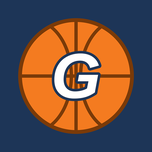
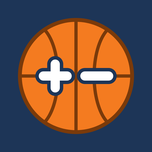
v3.36: icono nuevo (balón con + y −) y accesibilidad: contraste AA, zoom permitido, casillas con nombre
Claude-Session: https://claude.ai/code/session_01SzTzzzohvvMUpqctBHsnA3

diff --git a/index.html b/index.html
@@ -2,7 +2,7 @@
 <html lang="es">
 <head>
 <meta charset="UTF-8">
-<meta name="viewport" content="width=device-width, initial-scale=1, maximum-scale=1, user-scalable=no, viewport-fit=cover">
+<meta name="viewport" content="width=device-width, initial-scale=1, viewport-fit=cover">
 <meta name="app-version" content="3.36">
 <meta name="theme-color" content="#1d3557">
 <meta name="apple-mobile-web-app-capable" content="yes">
@@ -29,11 +29,15 @@
 <link href="https://fonts.googleapis.com/css2?family=Baloo+2:wght@500;700;800&family=Orbitron:wght@700;900&display=swap" rel="stylesheet">
 <style>
   :root{
-    --naranja:#f47b20; --naranja-osc:#c95d0c; --azul:#1d3557; --azul2:#274b7a;
-    --madera:#e9c48f; --madera2:#d9a865; --verde:#2a9d5c; --rojo:#e04848;
+    --naranja:#bd570a; --naranja-osc:#c95d0c; --azul:#1d3557; --azul2:#274b7a;
+    --madera:#e9c48f; --madera2:#d9a865; --verde:#22814b; --rojo:#d63030;
     --crema:#fff8ee; --tinta:#1d2433; --amarillo:#ffd23f; --ik-accent:#e06a10;
   }
   *{box-sizing:border-box;-webkit-tap-highlight-color:transparent;touch-action:manipulation}
+  /* Sin zoom sin querer mientras se juega (el zoom del sistema sigue disponible en los menús) */
+  #juego,#tarjetas,#completa{touch-action:pan-y}
+  /* Con el teclado, lo que recibe el foco no se queda escondido detrás del botón «¡A jugar!» (pegado abajo) */
+  html{scroll-padding-bottom:110px}
   html,body{-webkit-text-size-adjust:100%}
   html,body{margin:0;height:100%}
   body{
@@ -57,7 +61,7 @@
   h1{margin:0;font-size:2rem;line-height:1.05;color:var(--azul)}
   h2{margin:0 0 8px;font-size:1.3rem;color:var(--azul)}
   p{margin:.3em 0}
-  .version{font-size:.8rem;opacity:.55;text-align:center;margin-top:6px}
+  .version{font-size:.8rem;color:#5b6475;text-align:center;margin-top:6px}
 
   .cabecera{display:flex;align-items:center;gap:12px}
   .balon-logo{width:64px;height:64px;flex:none}
@@ -82,14 +86,14 @@
   .jugador-in[data-pose=tira]{animation:none}
   .opt[data-nivel],.opt[data-modo]{background:var(--c);color:#fff;border:3px solid transparent;
     box-shadow:0 5px 0 var(--o);transition:transform .12s, box-shadow .12s;text-shadow:0 1px 0 rgba(0,0,0,.2)}
-  .opt[data-nivel] small,.opt[data-modo] small{color:rgba(255,255,255,.92)}
+  .opt[data-nivel] small,.opt[data-modo] small{color:#fff}
   .opt[data-nivel].sel,.opt[data-modo].sel{background:var(--c);border-color:#fff;transform:translateY(-3px);
     box-shadow:0 8px 0 var(--o),0 0 0 4px var(--amarillo)}
   .opt[data-nivel]:not(.sel),.opt[data-modo]:not(.sel){filter:saturate(.75) brightness(.97)}
-  .opt[data-nivel=suma]{--c:#2a9d5c;--o:#1b6e40} .opt[data-nivel=resta]{--c:#3478d4;--o:#235597}
-  .opt[data-nivel=tablas]{--c:#7b5cff;--o:#5539c9} .opt[data-nivel=mezcla]{--c:#f47b20;--o:#b9560e}
-  .opt[data-modo=partido]{--c:#f47b20;--o:#b9560e} .opt[data-modo=entreno]{--c:#14a3a3;--o:#0c7373}
-  .opt[data-modo=reto]{--c:#e04848;--o:#a32f2f}
+  .opt[data-nivel=suma]{--c:#22814b;--o:#195f37} .opt[data-nivel=resta]{--c:#2c6ccb;--o:#21549a}
+  .opt[data-nivel=tablas]{--c:#6b48f5;--o:#4a2bc4} .opt[data-nivel=mezcla]{--c:#bd570a;--o:#883f07}
+  .opt[data-modo=partido]{--c:#bd570a;--o:#883f07} .opt[data-modo=entreno]{--c:#107f7f;--o:#0c5d5d}
+  .opt[data-modo=reto]{--c:#d63030;--o:#a41c1c}
   .opt[data-modo=rapido]{--c:#7c3aed;--o:#4c1d95}
 
   .btn{display:block;width:100%;border:0;border-radius:18px;padding:14px;font:inherit;
@@ -252,7 +256,7 @@
     background:var(--c);box-shadow:0 4px 0 var(--o);line-height:1.1}
   .mas:active{transform:translateY(3px);box-shadow:0 1px 0 var(--o)}
   .mas .signo{width:32px;height:32px;display:block;margin:0 auto 4px;filter:drop-shadow(0 2px 0 rgba(0,0,0,.25))}
-  .mas b{display:block} .mas small{display:block;font-weight:500;font-size:.78rem;opacity:.92;margin-top:2px}
+  .mas b{display:block} .mas small{display:block;font-weight:500;font-size:.78rem;margin-top:2px}
   .tablas-mini{margin:0 0 10px;justify-content:center;gap:6px}
   .tablas-mini .chip{min-width:40px;font-size:1.05rem;padding:4px 6px}
   /* Mi progreso */
@@ -335,7 +339,7 @@
   .led::before,.led::after{content:"";position:absolute;top:-14px;width:10px;height:14px;background:#2c2c2c}
   .led::before{left:30%} .led::after{right:30%}
   .barra-jugar{margin:4px 0 0;position:sticky;bottom:max(10px, env(safe-area-inset-bottom));z-index:6}
-  #btn-jugar .bj-txt{display:block;line-height:1.1} #btn-jugar small{display:block;font-size:.95rem;font-weight:700;opacity:.95;margin-top:2px}
+  #btn-jugar .bj-txt{display:block;line-height:1.1} #btn-jugar small{display:block;font-size:.95rem;font-weight:700;margin-top:2px}
   #btn-jugar{font-size:1.7rem;padding:16px;border:4px solid #fff;
     box-shadow:0 6px 0 var(--naranja-osc),0 10px 26px rgba(0,0,0,.35);animation:llama 1.8s ease-in-out infinite}
   #btn-jugar:active{animation:none}
@@ -413,7 +417,7 @@
     background:#050505;border-radius:6px;padding:4px 6px;box-shadow:inset 0 2px 6px rgba(0,0,0,.9)}
   .icono-btn{background:#f2f2f2;color:#1b2440;align-self:center;width:38px;height:38px;border-radius:50%;padding:0;
     display:flex;align-items:center;justify-content:center;font-size:1.15rem;border:2px solid #fff;box-shadow:0 3px 0 rgba(0,0,0,.45)}
-  .icono-btn.salir{background:#e04848;border-color:#fff}
+  .icono-btn.salir{background:#d63030;border-color:#fff}
   .icono-btn:active{transform:translateY(2px);box-shadow:0 1px 0 rgba(0,0,0,.45)}
   /* inicio: marcador del pabellón */
   .led{background:linear-gradient(#2a2d33,#15171b);border:3px solid #0a0b0d;box-shadow:0 0 0 2px #4a4f58 inset,0 6px 0 rgba(0,0,0,.3)}
@@ -822,9 +826,9 @@ const IK = (function(){
     <div class="tarjeta">
       <h2>3. Más para practicar las tablas</h2>
       <div class="mas-juegos">
-        <button class="mas" id="btn-tarjetas" style="--c:#0f8fd1;--o:#0a6696"><svg class="signo" viewBox="0 0 24 24" aria-hidden="true"><rect x="3" y="6" width="11" height="15" rx="2" fill="none" stroke="#fff" stroke-width="2.1"/><path d="M8 3.5h9.5a2 2 0 0 1 2 2V18" fill="none" stroke="#fff" stroke-width="2.1" stroke-linecap="round"/><path d="M6.5 13.5h4M8.5 11.5v4" stroke="#fff" stroke-width="2" stroke-linecap="round"/></svg><b>Tarjetas</b><small>Repaso rápido</small></button>
-        <button class="mas" id="btn-completa" style="--c:#7b5cff;--o:#5539c9"><svg class="signo" viewBox="0 0 24 24" aria-hidden="true"><g fill="none" stroke="#fff" stroke-width="2"><rect x="3" y="3" width="18" height="18" rx="2.5"/><path d="M9 3v18M15 3v18M3 9h18M3 15h18"/></g><rect x="15" y="9" width="6" height="6" fill="#ffd23f"/></svg><b>Completa la tabla</b><small>Rellena lo que falta</small></button>
-        <button class="mas" id="btn-progreso" style="--c:#2a9d5c;--o:#1b6e40"><svg class="signo" viewBox="0 0 24 24" aria-hidden="true"><path d="M4 20h16" stroke="#fff" stroke-width="2.2" stroke-linecap="round"/><rect x="5" y="12" width="3.4" height="6" rx="1" fill="#fff"/><rect x="10.3" y="8" width="3.4" height="10" rx="1" fill="#fff"/><rect x="15.6" y="4" width="3.4" height="14" rx="1" fill="#ffd23f"/></svg><b>Mi progreso</b><small>Lo que ya sabes</small></button>
+        <button class="mas" id="btn-tarjetas" style="--c:#0d74aa;--o:#0a5983"><svg class="signo" viewBox="0 0 24 24" aria-hidden="true"><rect x="3" y="6" width="11" height="15" rx="2" fill="none" stroke="#fff" stroke-width="2.1"/><path d="M8 3.5h9.5a2 2 0 0 1 2 2V18" fill="none" stroke="#fff" stroke-width="2.1" stroke-linecap="round"/><path d="M6.5 13.5h4M8.5 11.5v4" stroke="#fff" stroke-width="2" stroke-linecap="round"/></svg><b>Tarjetas</b><small>Repaso rápido</small></button>
+        <button class="mas" id="btn-completa" style="--c:#6b48f5;--o:#4a2bc4"><svg class="signo" viewBox="0 0 24 24" aria-hidden="true"><g fill="none" stroke="#fff" stroke-width="2"><rect x="3" y="3" width="18" height="18" rx="2.5"/><path d="M9 3v18M15 3v18M3 9h18M3 15h18"/></g><rect x="15" y="9" width="6" height="6" fill="#ffd23f"/></svg><b>Completa la tabla</b><small>Rellena lo que falta</small></button>
+        <button class="mas" id="btn-progreso" style="--c:#22814b;--o:#195f37"><svg class="signo" viewBox="0 0 24 24" aria-hidden="true"><path d="M4 20h16" stroke="#fff" stroke-width="2.2" stroke-linecap="round"/><rect x="5" y="12" width="3.4" height="6" rx="1" fill="#fff"/><rect x="10.3" y="8" width="3.4" height="10" rx="1" fill="#fff"/><rect x="15.6" y="4" width="3.4" height="14" rx="1" fill="#ffd23f"/></svg><b>Mi progreso</b><small>Lo que ya sabes</small></button>
       </div>
     </div>
 
@@ -1664,6 +1668,13 @@ const IK = (function(){
     if (J.modo==='rapido' && J.n===0) rapidoEmpieza();
   }
 
+  // Nombre de cada casilla del resultado para el lector de pantalla («Resultado, decenas: 7, bien»)
+  const LUGARES = ['unidades','decenas','centenas','unidades de millar','decenas de millar'];
+  const etqResp = (i, W, marcas) => {
+    const v = ans[i], m = marcas && marcas[i] ? String(marcas[i]) : '';
+    const est = /\bok\b|bien/.test(m) ? ', bien' : /mal/.test(m) ? ', revisar' : '';
+    return `Resultado, ${LUGARES[W-1-i] || 'cifra'}${v !== '' && v != null ? ': ' + v : ', vacía'}${est}`;
+  };
   function pintarRejilla(marcas, colPista){
     const W = op.W, g = $('#rejilla');
     g.classList.toggle('horiz', !!op.horiz);
@@ -1672,7 +1683,7 @@ const IK = (function(){
       let h = `<div class="celda ancha">${op.a}</div><div class="celda signo">${op.t==='+' ? '+' : op.t==='-' ? '−' : '×'}</div><div class="celda ancha">${op.b}</div><div class="celda">=</div>`;
       for (let i=0;i<W;i++){
         let c='resp'; if (i===activo && !resuelta) c+=' act'; if (marcas && marcas[i]) c+=' '+marcas[i];
-        h += `<button class="${c}" data-r="${i}">${ans[i]}</button>`;
+        h += `<button class="${c}" data-r="${i}" aria-label="${etqResp(i, W, marcas)}">${ans[i]}</button>`;
       }
       g.innerHTML = h; return;
     }
@@ -1696,7 +1707,7 @@ const IK = (function(){
       let c = 'resp';
       if (i===activo && !resuelta) c+=' act';
       if (marcas && marcas[i]) c+=' '+marcas[i];
-      h += `<button class="${c}" data-r="${i}">${ans[i]}</button>`;
+      h += `<button class="${c}" data-r="${i}" aria-label="${etqResp(i, W, marcas)}">${ans[i]}</button>`;
     }
     g.innerHTML = h;
   }
@@ -2858,7 +2869,7 @@ const IK = (function(){
   const VERSION = (document.querySelector('meta[name="app-version"]')||{}).content || 'dev';
   // Lo que trae cada versión, contado para Gabi (lo más nuevo, arriba)
   const NOVEDADES = [
-    ['3.36',['✍ Cada jugador escribe su nombre al empezar y el público lo grita en cada canasta', '⚙ El nombre se puede cambiar en Ajustes']],
+    ['3.36',['✍ Cada jugador escribe su nombre al empezar y el público lo grita en cada canasta', '⚙ El nombre se puede cambiar en Ajustes', '🏀 Icono nuevo: un balón con + y −', '👀 Colores de los botones más fuertes para que se lean mejor']],
     ['3.35.1',['📲 Ayuda para instalar al día con iOS 27: el botón de tres rayas dentro de la barra de la dirección']],
   ['3.35', ['🔄 En Ajustes, botón «Buscar actualizaciones»', '📲 Ayuda para instalarlo con los pasos de tu iPad o móvil, y aviso amarillo en el menú', '🖼 Iconos para todos los tamaños e imagen al compartir el enlace']],
     ['3.34', ['🎯 Las cuentas que fallas salen más a menudo hasta que te las sabes', '📊 Nuevo «Mi progreso»: la tabla de multiplicar se va poniendo verde', '🃏 Nuevo juego de Tarjetas: ¿te la sabías o no?', '🧩 Nuevo juego «Completa la tabla», con pistas', '📲 En Ajustes: cómo instalarla en el iPad, copiar el enlace y «Acerca de»', '🏀 El botón «¡A jugar!» está siempre a mano, debajo de «¿Cómo jugamos?»', '👆 Tocar dos veces seguidas ya no acerca la pantalla']],
